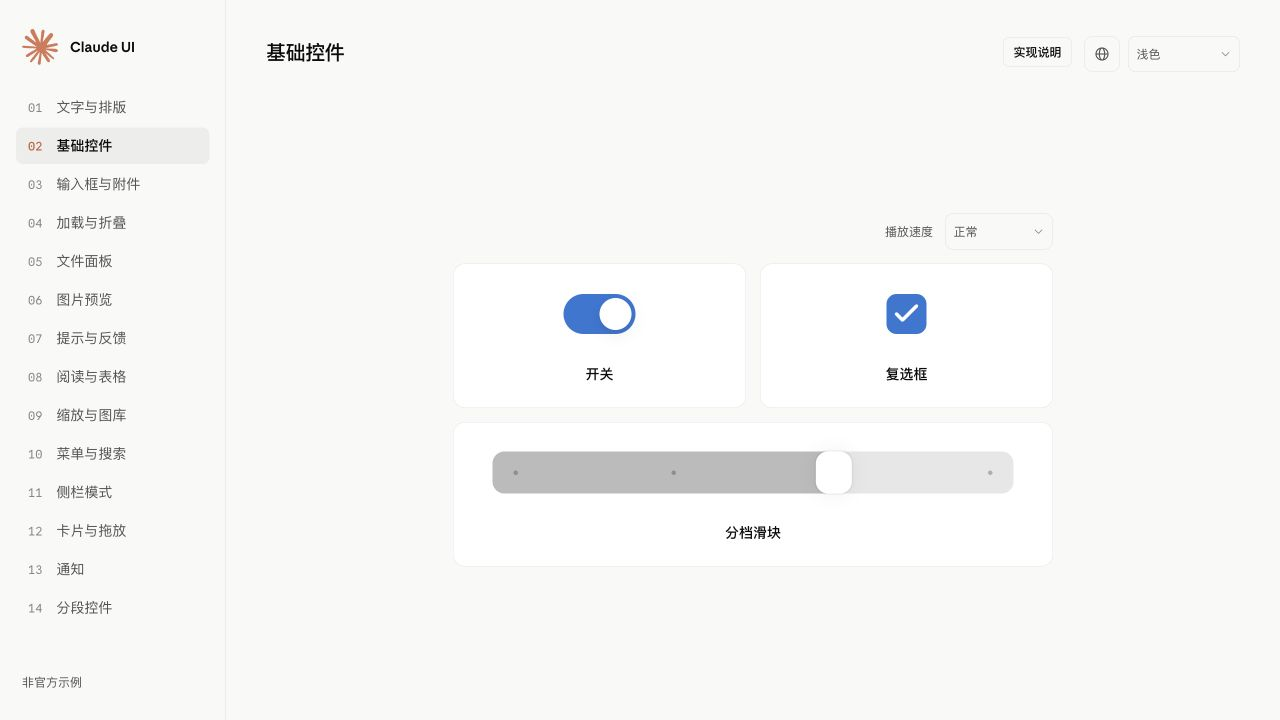
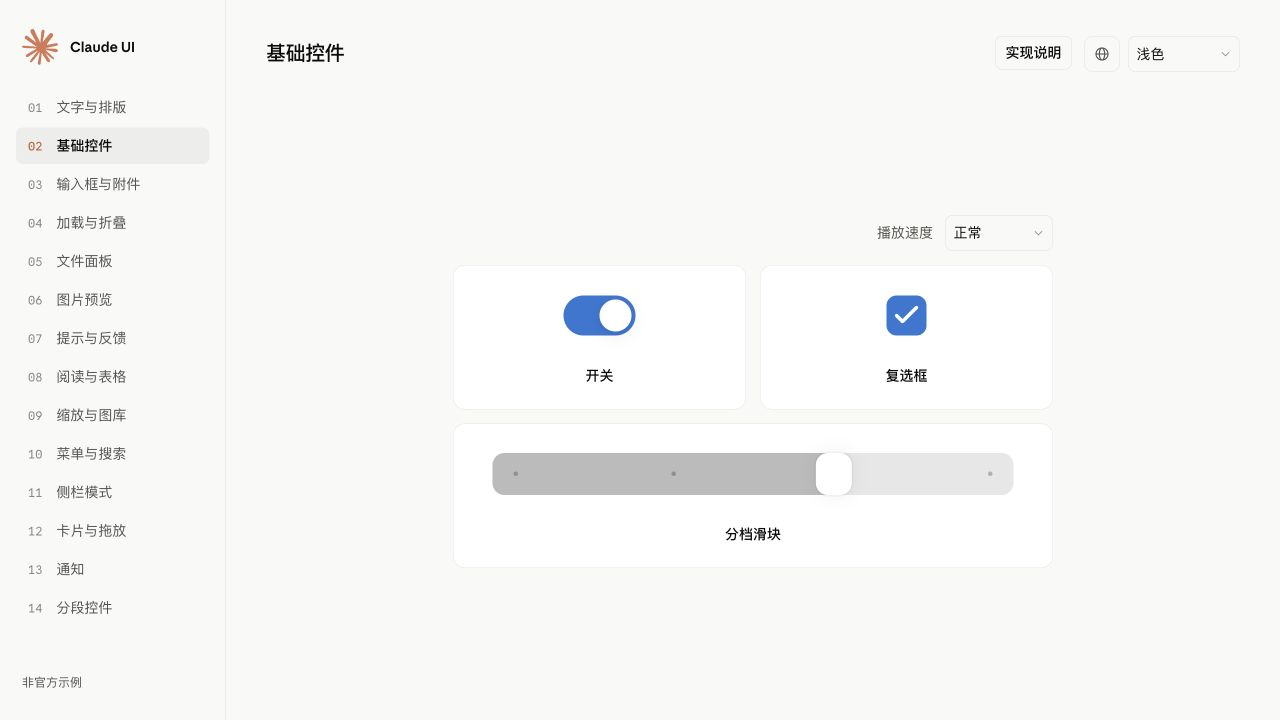
fix(demo): improve dark theme text legibility

diff --git a/demo/styles/shell.css b/demo/styles/shell.css
@@ -1,13 +1,15 @@
-/* Demo presentation is independent of the reusable component specimens. */
+/* Demo presentation is independent of the reusable component specimens.
+   Keep shell text at regular/medium weights in both themes; specimens retain
+   the original theme-adjusted font weights. */
 .demo-shell { --demo-line: 0.5px; min-height: 100dvh; }
-.demo-sidebar { position:fixed; inset:0 auto 0 0; width:226px; padding:29px 22px; border-right:var(--demo-line) solid var(--cui-line); display:flex; flex-direction:column; background:var(--cui-bg); z-index:30; }
+.demo-sidebar { font-weight:400; position:fixed; inset:0 auto 0 0; width:226px; padding:29px 22px; border-right:var(--demo-line) solid var(--cui-line); display:flex; flex-direction:column; background:var(--cui-bg); z-index:30; }
 .demo-brand { display:flex; align-items:center; gap:12px; font-size:14px; font-weight:600; line-height:1.5; }
 .demo-brand img { display:block; width:36px; height:36px; flex-shrink:0; }
 .demo-sidebar nav { display:flex; flex-direction:column; gap:2px; margin:24px -6px 0; flex:1 1 auto; overflow-y:auto; min-height:0; }
 .demo-sidebar nav a { padding:8px 12px; border-radius:7px; font-size:14px; line-height:20px; display:flex; align-items:baseline; gap:14px; color:var(--cui-secondary); transition:background 120ms var(--cui-ease-snap),color 120ms var(--cui-ease-snap); }
 .demo-sidebar nav a span { flex-shrink:0; font-size:12px; font-family:var(--cui-font-mono); color:var(--cui-muted); }
 .demo-sidebar nav a:hover { background:var(--cui-menu-hover); color:var(--cui-text); }
-.demo-sidebar nav a[aria-current] { background:var(--cui-muted-surface); color:var(--cui-text); font-weight:var(--cui-medium); }
+.demo-sidebar nav a[aria-current] { background:var(--cui-muted-surface); color:var(--cui-text); font-weight:500; }
 .demo-sidebar nav a[aria-current] span { color:var(--cui-clay); }
 .demo-sidebar-note { margin-top:auto; padding:16px 6px 0; font-size:12px; line-height:1.5; color:var(--cui-secondary); }
 .demo-chapter-toggle { display:none; }
@@ -19,15 +21,15 @@
 .demo-shell-icon:hover,.demo-shell-icon[aria-expanded=true] { color:var(--cui-text); }
 .demo-shell-icon svg { width:16px; height:16px; fill:none; stroke:currentColor; stroke-width:1.65; stroke-linecap:round; stroke-linejoin:round; }
 .demo-shell-menu { position:absolute; top:calc(100% + 8px); right:0; min-width:152px; padding:5px; border:var(--demo-line) solid var(--cui-line); border-radius:10px; background:var(--cui-surface-popover); box-shadow:0 8px 24px var(--cui-shadow-depth); z-index:1; }
-.demo-shell-menu button { width:100%; display:flex; align-items:center; justify-content:space-between; gap:20px; padding:7px 10px; border:0; border-radius:5px; background:transparent; font-size:14px; line-height:20px; white-space:nowrap; text-align:left; color:var(--cui-secondary); }
+.demo-shell-menu button { width:100%; display:flex; align-items:center; justify-content:space-between; gap:20px; padding:7px 10px; border:0; border-radius:5px; background:transparent; font-size:14px; font-weight:400; line-height:20px; white-space:nowrap; text-align:left; color:var(--cui-text); }
 .demo-shell-menu button:hover,.demo-shell-menu button:focus-visible { background:var(--cui-menu-hover); }
 .demo-shell-menu button:focus-visible { outline:2px solid var(--cui-accent); outline-offset:-2px; }
-.demo-shell-menu [aria-checked=true] { color:var(--cui-text); }
+.demo-shell-menu [aria-checked=true] { font-weight:500; }
 .demo-shell-menu button span { visibility:hidden; font-size:12px; }
 .demo-shell-menu [aria-checked=true] span { visibility:visible; }
 .demo-page main { max-width:1200px; padding:36px 40px 28px; margin:auto; }
 .demo-section-head { display:flex; align-items:center; justify-content:space-between; gap:10px; min-height:32px; padding-right:168px; flex-wrap:wrap; margin-bottom:20px; }
-.demo-section-head h1 { margin:0; font-size:20px; font-weight:var(--cui-medium); line-height:1.35; letter-spacing:-.4px; }
+.demo-section-head h1 { margin:0; font-size:20px; font-weight:500; line-height:1.35; letter-spacing:-.4px; }
 .demo-stage { --chapter-width:720px; position:relative; container-type:inline-size; display:grid; justify-items:center; align-items:center; min-height:calc(100dvh - 116px); }
 .demo-stage[data-chapter=controls],.demo-stage[data-chapter=micro],.demo-stage[data-chapter=modes],.demo-stage[data-chapter=segmented] { --chapter-width:600px; }
 .demo-stage:is([data-chapter=type],[data-chapter=menus]) { --chapter-width:980px; }
@@ -45,22 +47,22 @@
 .demo-stage[data-chapter=workspace] .demo-specimen > * { flex:1 1 auto; }
 .demo-card { min-width:0; padding:22px; border:var(--demo-line) solid var(--cui-line); border-radius:12px; background:var(--cui-surface); }
 .demo-card.extra-pad { padding:30px 22px 22px; }
-.demo-card-foot { display:flex; gap:15px; flex-wrap:wrap; padding:13px 20px; border-top:var(--demo-line) solid var(--cui-line); font-size:12px; color:var(--cui-secondary); line-height:1.7; }
+.demo-card-foot { font-weight:400; display:flex; gap:15px; flex-wrap:wrap; padding:13px 20px; border-top:var(--demo-line) solid var(--cui-line); font-size:12px; color:var(--cui-secondary); line-height:1.7; }
 .demo-card > .demo-card-foot { margin:22px -22px -22px; }
 .demo-card.extra-pad > .demo-card-foot { margin:30px -22px -22px; }
 .demo-card-foot b { font-size:inherit; color:var(--cui-secondary); font-family:var(--cui-font-mono); font-weight:500; }
-.demo-button { border:var(--demo-line) solid var(--cui-line); background:var(--cui-surface); border-radius:7px; padding:8px 13px; white-space:nowrap; font-size:12px; font-weight:var(--cui-medium); line-height:1.6; transition:background 120ms var(--cui-ease-snap),color 120ms var(--cui-ease-snap); }
+.demo-button { border:var(--demo-line) solid var(--cui-line); background:var(--cui-surface); border-radius:7px; padding:8px 13px; white-space:nowrap; font-size:14px; font-weight:500; line-height:1.6; transition:background 120ms var(--cui-ease-snap),color 120ms var(--cui-ease-snap); }
 .demo-button:hover { background:var(--cui-muted-surface); }
-.demo-button.small { font-size:12px; padding:5px 10px; }
+.demo-button.small { font-size:14px; padding:5px 10px; }
 .demo-button.subtle { background:transparent; }
 .demo-effect-card { display:flex; flex-direction:column; padding:0; overflow:hidden; }
 .demo-effect-heading { display:flex; align-items:center; justify-content:space-between; gap:12px; min-height:46px; padding:16px 20px 0; }
-.demo-effect-heading h2 { font-size:14px; font-weight:var(--cui-medium); line-height:1.6; }
+.demo-effect-heading h2 { font-size:14px; font-weight:500; line-height:1.6; }
 .demo-effect-card > .demo-card-foot { margin:0; margin-top:auto; }
 .demo-control-card { padding:0; display:flex; flex-direction:column; }
 .demo-control-row { min-height:100px; padding:20px 24px; display:flex; align-items:center; justify-content:center; gap:20px; }
-.demo-control-caption { padding:0 18px 18px; text-align:center; overflow-wrap:anywhere; }
-.demo-control-caption h3 { margin:0 0 6px; font-size:14px; font-weight:var(--cui-medium); line-height:1.4; }
+.demo-control-caption { font-weight:400; padding:0 18px 18px; text-align:center; overflow-wrap:anywhere; }
+.demo-control-caption h3 { margin:0 0 6px; font-size:14px; font-weight:500; line-height:1.4; }
 .demo-control-caption p { color:var(--cui-secondary); font-size:12px; line-height:1.5; margin:0; }
 .demo-control-caption .demo-control-params { margin-top:8px; color:var(--cui-secondary); }
 .demo-controls-grid { display:grid; grid-template-columns:repeat(2,minmax(0,1fr)); gap:14px; }
@@ -107,7 +109,7 @@
 .demo-select-trigger {
   display:flex; align-items:center; justify-content:space-between; gap:8px; min-height:36px;
   border:var(--demo-line) solid var(--cui-line); border-radius:8px; padding:0 8px;
-  font:inherit; font-size:12px; color:var(--cui-secondary); background:transparent;
+  font:inherit; font-size:14px; font-weight:400; color:var(--cui-text); background:transparent;
 }
 .demo-select-trigger:hover, .demo-select-trigger[aria-expanded=true] { background:var(--cui-menu-hover); color:var(--cui-text); }
 .demo-select-trigger > span { min-width:0; overflow:hidden; text-overflow:ellipsis; white-space:nowrap; }
@@ -119,19 +121,20 @@
 }
 .demo-select-menu > button {
   display:flex; align-items:center; justify-content:space-between; gap:20px; width:100%; min-height:34px;
-  border:0; border-radius:5px; padding:6px 9px; font:inherit; font-size:12px; text-align:left;
+  border:0; border-radius:5px; padding:6px 9px; font:inherit; font-size:14px; font-weight:400; text-align:left;
   white-space:nowrap; color:var(--cui-text); background:transparent;
 }
 .demo-select-menu > button[data-highlighted] { background:var(--cui-menu-hover); }
 .demo-select-menu > button > .cui-icon { visibility:hidden; color:var(--cui-secondary); }
+.demo-select-menu > button[aria-selected=true] { font-weight:500; }
 .demo-select-menu > button[aria-selected=true] > .cui-icon { visibility:visible; }
 .demo-speed-select { min-width:108px; }
 .demo-theme-select { width: 112px; }
-.demo-speed-control { display: flex; align-items: center; gap: 12px; font-size: 12px; color: var(--cui-secondary); }
+.demo-speed-control { display: flex; align-items: center; gap: 12px; font-size: 14px; font-weight:400; color: var(--cui-secondary); }
 .demo-control-params { display: flex; flex-wrap: wrap; justify-content: center; gap: 4px 12px; }
 .demo-shell[data-show-notes=false] :is(.demo-card-foot, .demo-implementation, p.demo-reading-detail, .demo-workspace-card > footer) { display: none; }
 @media (max-width:520px) {
-  .demo-theme-select { width:88px; }
+  .demo-theme-select { width:88px; gap:4px; padding-inline:6px; }
   .demo-sidebar { padding-right:164px; gap:8px; }
   .demo-chapter-toggle small { display:none; }
 }
